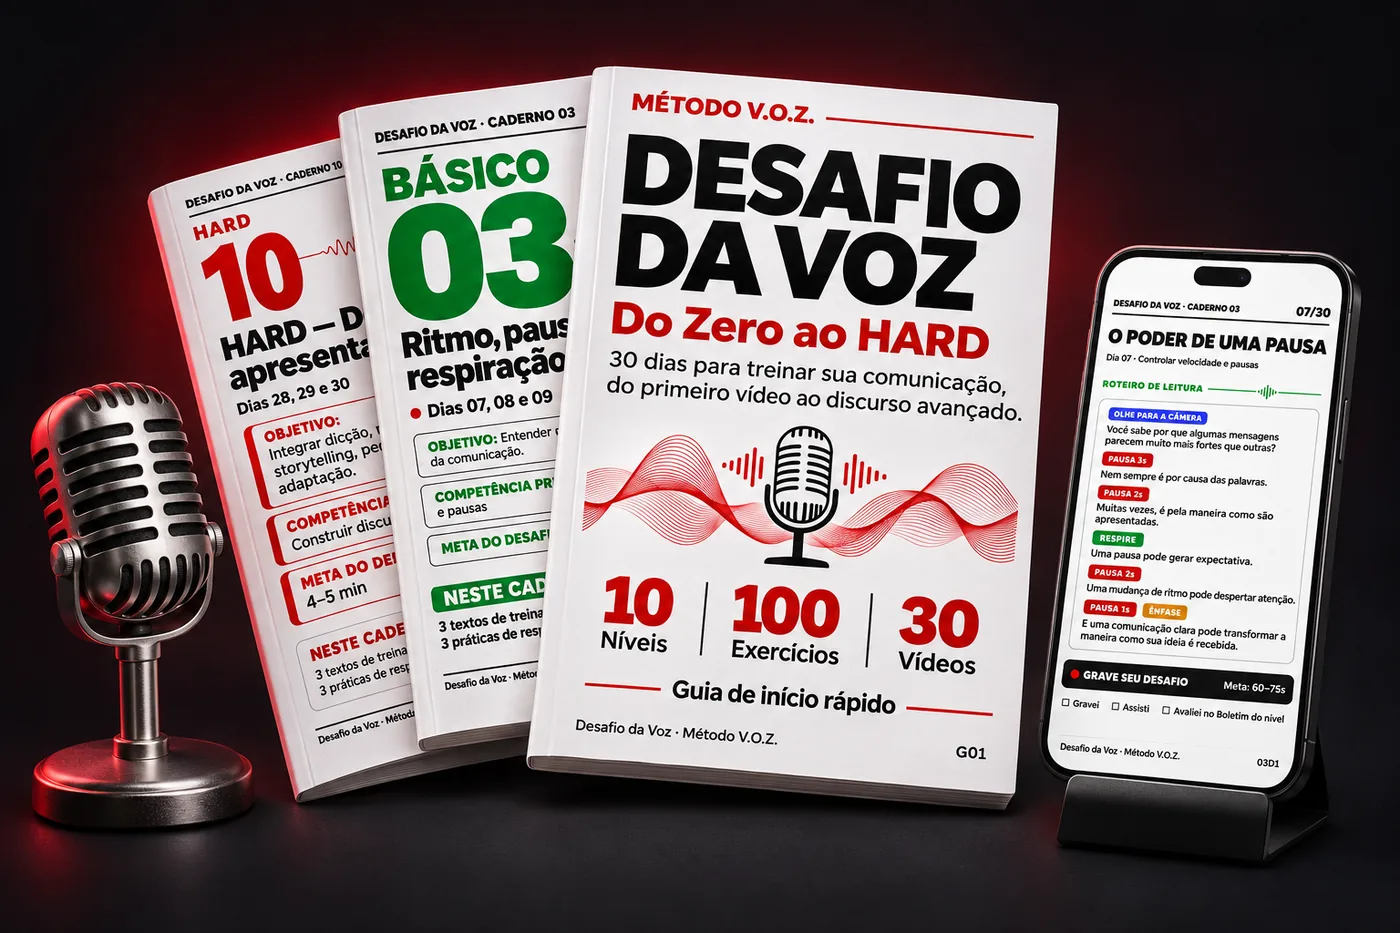
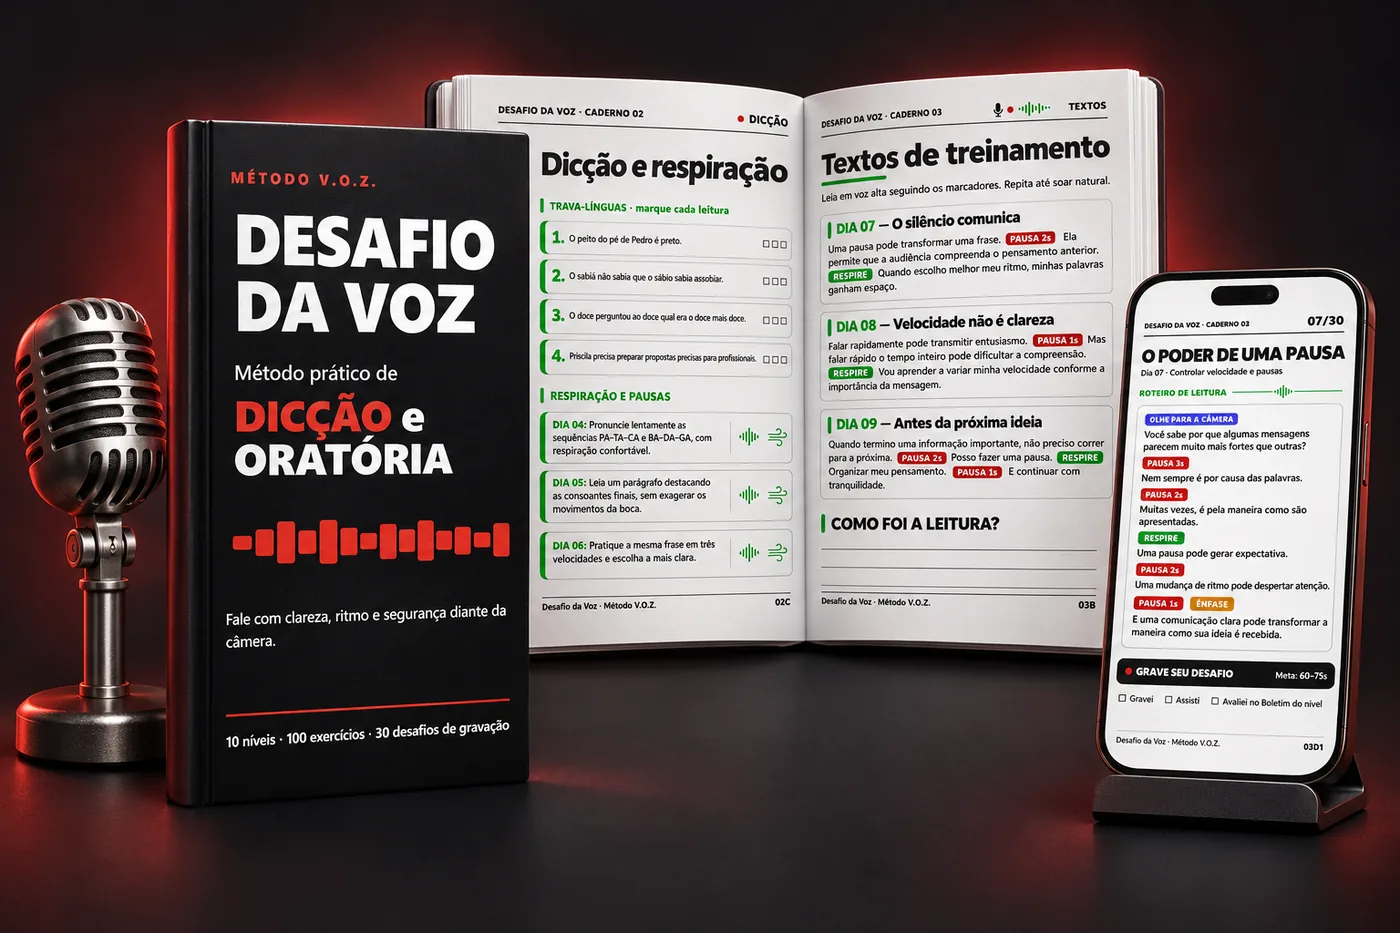
Copy com foco em dicção e oratória, novo mockup, material por dentro abaixo do hero, sem barra do topo

diff --git a/index.html b/index.html
@@ -3,13 +3,13 @@
 <head>
 <meta charset="UTF-8">
 <meta name="viewport" content="width=device-width, initial-scale=1, viewport-fit=cover">
-<title>Desafio da Voz — Do Zero ao HARD | Treinamento prático de oratória</title>
-<meta name="description" content="Treinamento prático de oratória para criadores e empreendedores: 10 níveis, 100 exercícios de dicção, respiração e ritmo e 30 desafios de gravação para se comunicar com mais clareza diante da câmera.">
+<title>Desafio da Voz — Método prático de dicção e oratória | Do Zero ao HARD</title>
+<meta name="description" content="Método V.O.Z.: treino prático de dicção e oratória em 30 dias, com 10 níveis, 100 exercícios de dicção, respiração e ritmo e 30 desafios de gravação para falar com mais clareza e segurança diante da câmera.">
 <meta name="theme-color" content="#111216">
 <meta property="og:type" content="website">
 <meta property="og:locale" content="pt_BR">
-<meta property="og:title" content="Desafio da Voz — Do Zero ao HARD">
-<meta property="og:description" content="Você sabe o que quer falar. Mas trava quando liga a câmera? 30 desafios progressivos de voz, dicção, respiração e gravação.">
+<meta property="og:title" content="Desafio da Voz — Método prático de dicção e oratória">
+<meta property="og:description" content="Melhore sua dicção e oratória e fale com mais segurança diante da câmera: 30 dias de treino guiado, do zero ao HARD.">
 <meta property="og:image" content="https://eduhtoledo-cloud.github.io/desafio-da-voz/og-image.jpg">
 <meta property="og:image:width" content="1200">
 <meta property="og:image:height" content="630">
@@ -108,6 +108,10 @@ section{scroll-margin-top:70px}
 .waves{position:absolute;inset:auto 0 0 0;height:120px;opacity:.12;pointer-events:none}
 
 /* mockup do kit (ilustrativo, troque por imagem depois) */
+.hero-list{list-style:none;display:grid;gap:10px;margin-top:22px}
+.hero-list li{display:flex;gap:10px;align-items:flex-start;color:#E4E4E7;font-size:1rem}
+.hero-list svg{width:20px;height:20px;color:#EF4444;flex:none;margin-top:3px}
+.hero-list b{color:#fff}
 .hero-img{width:100%;height:auto;max-width:640px;margin:0 auto;display:block;border-radius:18px}
 .mock{position:relative;width:100%;max-width:520px;margin:0 auto;aspect-ratio:5/4;container-type:inline-size}
 .mock img{width:100%;height:100%;object-fit:contain}
@@ -338,12 +342,6 @@ footer a{color:#D4D4D8}
   </defs>
 </svg>
 
-<header class="top">
-  <div class="wrap">
-    <a href="#topo" class="logo" aria-label="Desafio da Voz — início"><i><svg><use href="#i-mic"/></svg></i>DESAFIO DA VOZ</a>
-    <a href="#oferta" class="btn btn-red">Ver planos</a>
-  </div>
-</header>
 
 <main>
 
@@ -352,16 +350,45 @@ footer a{color:#D4D4D8}
   <svg class="waves" viewBox="0 0 1200 120" preserveAspectRatio="none" aria-hidden="true"><path d="M0 60 Q 50 10 100 60 T 200 60 T 300 60 T 400 60 T 500 60 T 600 60 T 700 60 T 800 60 T 900 60 T 1000 60 T 1100 60 T 1200 60" stroke="#DC2626" stroke-width="2" fill="none"/><path d="M0 60 Q 75 100 150 60 T 300 60 T 450 60 T 600 60 T 750 60 T 900 60 T 1050 60 T 1200 60" stroke="#fff" stroke-width="1.5" fill="none"/></svg>
   <div class="wrap">
     <div>
-      <span class="rec"><b></b>TREINAMENTO PRÁTICO DE ORATÓRIA PARA CRIADORES E EMPREENDEDORES</span>
-      <h1 id="hero-t">Você sabe o que quer falar. Mas <span class="red">trava quando liga a câmera?</span></h1>
-      <p class="lead">Aprenda a se comunicar com mais clareza e naturalidade através de 30 desafios progressivos de voz, dicção, respiração e gravação — começando do absoluto zero.</p>
-      <a href="#oferta" class="btn btn-red">QUERO DESTRAVAR MINHA COMUNICAÇÃO <svg><use href="#i-arrow"/></svg></a>
+      <span class="rec"><b></b>MÉTODO V.O.Z. · DICÇÃO E ORATÓRIA NA PRÁTICA</span>
+      <h1 id="hero-t">Melhore sua <span class="red">dicção e oratória</span> e fale com mais segurança diante da câmera.</h1>
+      <p class="lead">Para quem sabe o que quer dizer, mas trava, acelera ou embola as palavras na hora de gravar. O Método V.O.Z. é um treino guiado de 30 dias com exercícios de dicção, respiração, ritmo e oratória — do primeiro vídeo de 30 segundos até uma apresentação completa.</p>
+      <ul class="hero-list">
+        <li><svg><use href="#i-check"/></svg><span><b>Dicção mais clara:</b> articule as palavras sem engolir sílabas.</span></li>
+        <li><svg><use href="#i-check"/></svg><span><b>Oratória organizada:</b> pausas, ritmo e respiração no lugar certo.</span></li>
+        <li><svg><use href="#i-check"/></svg><span><b>Segurança para gravar:</b> 30 desafios práticos, do zero ao HARD.</span></li>
+      </ul>
+      <a href="#oferta" class="btn btn-red">QUERO MELHORAR MINHA DICÇÃO E ORATÓRIA <svg><use href="#i-arrow"/></svg></a>
       <p class="mini">Material 100% digital • Pagamento único • Acesso após confirmação do pagamento</p>
     </div>
     <div>
-      <img class="hero-img" src="img/mockup-kit.webp" width="1400" height="933" fetchpriority="high" decoding="async" alt="Kit Desafio da Voz: cadernos impressos dos níveis, guia de início rápido e um desafio de gravação aberto no celular">
+      <img class="hero-img" src="img/mockup-kit.webp" width="1400" height="933" fetchpriority="high" decoding="async" alt="Desafio da Voz, método prático de dicção e oratória: caderno principal, páginas de exercícios de dicção e roteiro com pausas, e um desafio de gravação no celular">
       <p class="ill">Imagem ilustrativa do material digital</p>
     </div>
+  </div>
+</section>
+
+<!-- 01B VEJA O MATERIAL POR DENTRO -->
+<section class="sec" aria-labelledby="dentro-t">
+  <div class="wrap">
+    <div class="head center rv">
+      <span class="eyebrow">Veja o material por dentro</span>
+      <h2 id="dentro-t">Páginas reais do método: exercícios de dicção, roteiros com pausas e desafios de gravação.</h2>
+      <p class="lead">Arraste para o lado e veja como cada atividade é organizada.</p>
+    </div>
+  </div>
+
+  <div class="car" id="car" aria-roledescription="carrossel" aria-label="Prévias das atividades">
+    <div class="track" id="track"></div>
+  </div>
+  <div class="wrap">
+    <div class="car-nav">
+      <button type="button" id="prev" aria-label="Atividade anterior"><svg><use href="#i-left"/></svg></button>
+      <button type="button" id="next" aria-label="Próxima atividade"><svg><use href="#i-right"/></svg></button>
+    </div>
+    <p class="demo-note" id="demo-note" hidden>Exemplos de demonstração. As prévias reais do material serão exibidas aqui.</p>
+
+    <div class="cta-row"><a href="#oferta" class="btn btn-red">QUERO ACESSAR O MÉTODO COMPLETO <svg><use href="#i-arrow"/></svg></a></div>
   </div>
 </section>
 
@@ -377,11 +404,11 @@ footer a{color:#D4D4D8}
       <div class="card take rv"><small>TAKE 01</small><h3>Prepara o que vai falar, mas trava quando começa a gravar.</h3><p>Na cabeça estava tudo claro. Bastou a luz vermelha acender.</p></div>
       <div class="card take rv"><small>TAKE 02</small><h3>Esquece o roteiro no meio da frase.</h3><p>E recomeça. De novo. E de novo.</p></div>
       <div class="card take rv"><small>TAKE 03</small><h3>Acelera demais a fala.</h3><p>Querendo terminar logo, as palavras atropelam umas às outras.</p></div>
-      <div class="card take rv"><small>TAKE 04</small><h3>Fica desconfortável ao ouvir a própria voz.</h3><p>Parece que não é você ali na gravação.</p></div>
+      <div class="card take rv"><small>TAKE 04</small><h3>Engole sílabas e a fala sai embolada.</h3><p>Você repete a frase e, mesmo assim, ela não soa clara.</p></div>
       <div class="card take rv"><small>TAKE 05</small><h3>Apaga vídeos que poderiam ter sido publicados.</h3><p>A galeria guarda mais tentativas do que o seu perfil.</p></div>
       <div class="card take rv"><small>TAKE 06</small><h3>Evita oportunidades de mostrar seu trabalho.</h3><p>Lives, apresentações, stories… sempre fica para depois.</p></div>
     </div>
-    <p class="quote rv">Talvez você não precise de mais um roteiro. Talvez precise <span>treinar a maneira como apresenta suas ideias.</span></p>
+    <p class="quote rv">Talvez você não precise de mais um roteiro. Talvez precise <span>treinar sua dicção e a maneira como apresenta suas ideias.</span></p>
   </div>
 </section>
 
@@ -407,8 +434,8 @@ footer a{color:#D4D4D8}
   <div class="wrap">
     <div class="head center rv">
       <span class="eyebrow">Método V.O.Z.</span>
-      <h2 id="metodo-t">Conheça o método que organiza sua evolução.</h2>
-      <p class="lead">Três pilares que conectam o treino da voz à prática diante da câmera.</p>
+      <h2 id="metodo-t">O método que treina sua dicção e sua oratória, passo a passo.</h2>
+      <p class="lead">Três pilares que levam você da articulação das palavras até o vídeo gravado com segurança.</p>
     </div>
     <div class="grid g3 voz">
       <span class="link-line" aria-hidden="true"></span>
@@ -424,22 +451,10 @@ footer a{color:#D4D4D8}
 <section class="sec" aria-labelledby="ativ-t">
   <div class="wrap">
     <div class="head center rv">
-      <span class="eyebrow">Atividades na prática</span>
-      <h2 id="ativ-t">Não é só aprender sobre oratória. É colocar sua voz em ação.</h2>
-      <p class="lead">Exercícios curtos, objetivos e feitos para serem praticados em voz alta.</p>
+      <span class="eyebrow">Como os roteiros funcionam</span>
+      <h2 id="ativ-t">Cada texto mostra onde pausar, respirar e dar ênfase.</h2>
+      <p class="lead">Você não precisa adivinhar como ler: os marcadores guiam sua voz frase por frase.</p>
     </div>
-  </div>
-
-  <div class="car" id="car" aria-roledescription="carrossel" aria-label="Prévias das atividades">
-    <div class="track" id="track"></div>
-  </div>
-  <div class="wrap">
-    <div class="car-nav">
-      <button type="button" id="prev" aria-label="Atividade anterior"><svg><use href="#i-left"/></svg></button>
-      <button type="button" id="next" aria-label="Próxima atividade"><svg><use href="#i-right"/></svg></button>
-    </div>
-    <p class="demo-note" id="demo-note" hidden>Exemplos de demonstração. As prévias reais do material serão exibidas aqui.</p>
-
     <div class="script rv">
       <div>
         <span class="eyebrow">Roteiro com marcadores</span>
@@ -462,7 +477,7 @@ footer a{color:#D4D4D8}
         <p id="ex-p">Os textos de treino trazem marcações que mostram onde pausar, respirar, enfatizar e olhar para a lente.</p>
       </div>
     </div>
-    <div class="cta-row"><a href="#oferta" class="btn btn-red">QUERO TREINAR COM ESSES EXERCÍCIOS <svg><use href="#i-arrow"/></svg></a></div>
+    <div class="cta-row"><a href="#oferta" class="btn btn-red">QUERO TREINAR COM ESSES ROTEIROS <svg><use href="#i-arrow"/></svg></a></div>
   </div>
 </section>
 
@@ -613,7 +628,7 @@ footer a{color:#D4D4D8}
     <div class="plans">
       <div class="plan rv">
         <h3>KIT ESSENCIAL</h3>
-        <p class="sub">O treinamento completo dos 10 níveis.</p>
+        <p class="sub">O método completo de dicção e oratória em 10 níveis.</p>
         <div class="price" data-price="essencial"></div>
         <div class="once">pagamento único</div>
         <ul>
@@ -628,7 +643,7 @@ footer a{color:#D4D4D8}
       <div class="plan pro rv">
         <span class="badge">MAIS RECURSOS</span>
         <h3>KIT COMPLETO</h3>
-        <p class="sub">O treinamento + materiais para criadores de conteúdo.</p>
+        <p class="sub">O método completo + materiais extras para criadores de conteúdo.</p>
         <div class="price" data-price="completo"></div>
         <div class="once">pagamento único</div>
         <ul>
